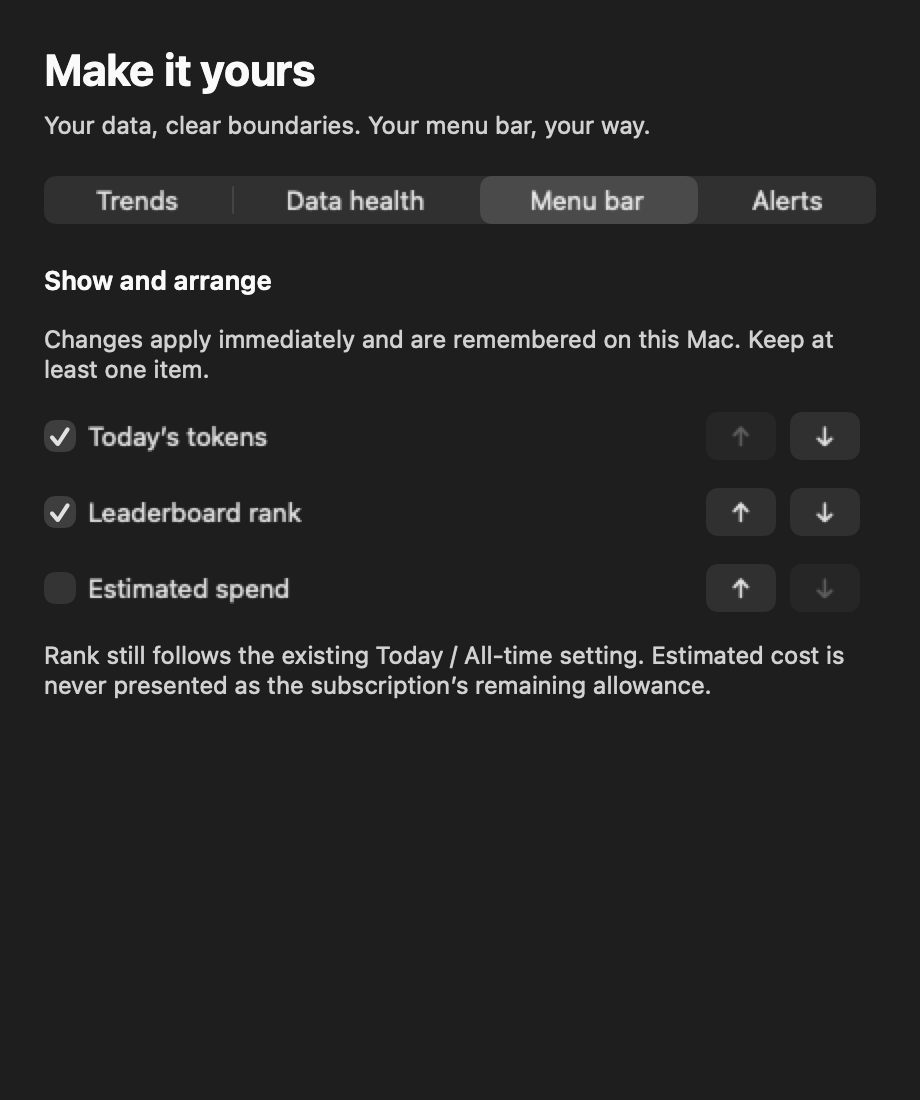
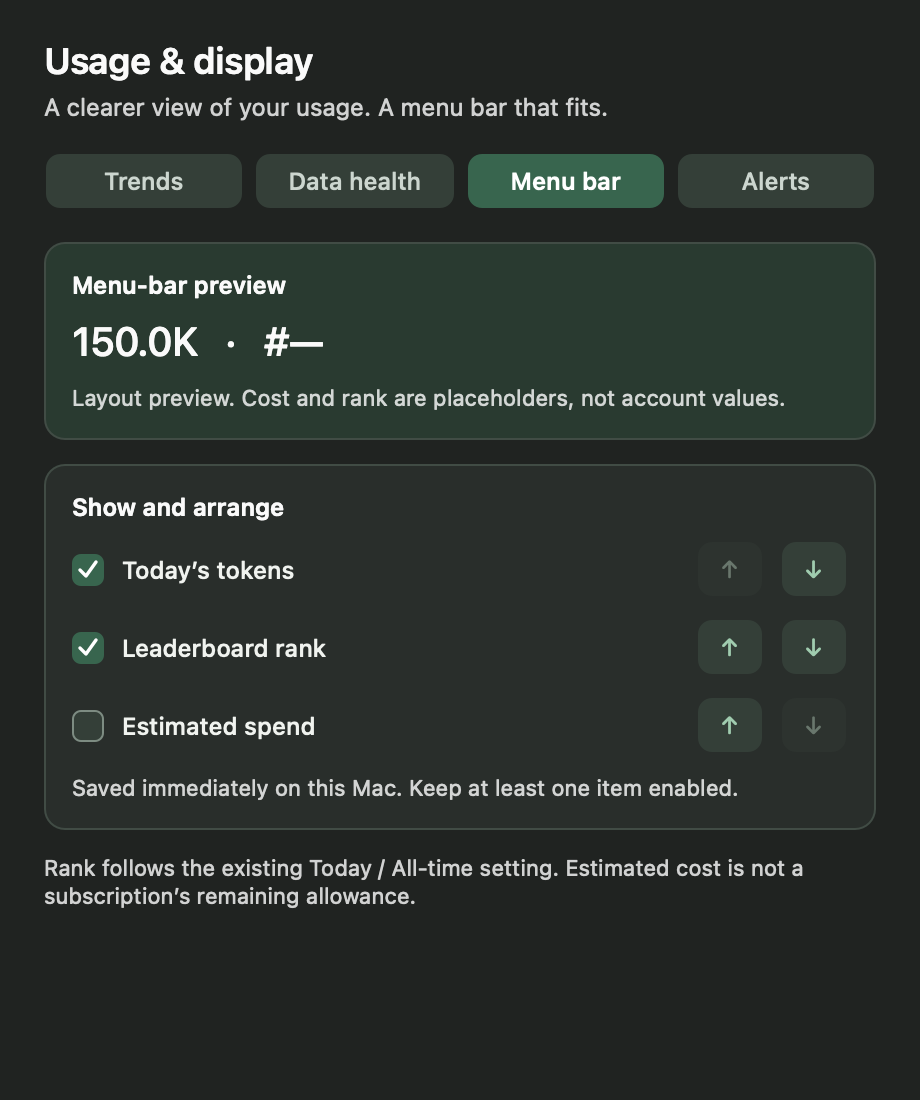
Refresh build21 native screenshots and document page-by-page polish

Changed region(s): [[0.0304, 0.0309, 0.9739, 0.7418], [0.0304, 0.7727, 0.8826, 0.8345], [0.7913, 0.4636, 0.8217, 0.4945]]

diff --git a/docs/SCREENSHOTS.md b/docs/SCREENSHOTS.md
@@ -36,12 +36,12 @@ The earlier [2026-10-27 run](https://github.com/lucaisgrowing/tokens-menubar/act
 这 14 张图片由 1.11.1 源码构建的 App 在 macOS 上以 2× 分辨率原生离屏渲染，使用虚构的 `demo-user` API／CLI 数据。截图模式使用固定底色代替实际弹层材质；它不是桌面截图，也不代替真实账号、钥匙串、CLI 和界面交互的人工验收。贡献图在滚动年份靠近月初时，前两个标签可能重叠，这是原界面的布局问题，不是图片放大造成的。
 
 
-## Unreleased 1.12.0 build 20 candidate
+## Unreleased 1.12.0 build 21 candidate
 
-The candidate README images were refreshed from the exact universal App produced by [macOS run 40668113754](https://github.com/lucaisgrowing/tokens-menubar/actions/runs/40668113754), source `e685551dceedc970c8b1c892c61da57f9214789e`. They supersede the released-version image provenance above only on the isolated candidate branch.
+The four Usage & display pane images in both languages and appearances were refreshed from the exact universal App produced by [macOS run 40797769460](https://github.com/lucaisgrowing/tokens-menubar/actions/runs/40797769460), source `cb846e2`. They supersede the released-version image provenance above only on the isolated candidate branch.
 
-- `docs/menu*.png` and their Chinese counterparts are 720×1492; Agent windows are 1400×1440; Usage & display panes are 920×1100. All are 2× native AppKit offscreen renders, not an image upscaling.
+- Main/Agent images remain from build 20 (run 40668113754), visually unchanged by this preference-only refinement. `docs/menu*.png` and their Chinese counterparts are 720×1492; Agent windows are 1400×1440; the updated Usage & display panes are 920×1100. All are 2× native AppKit offscreen renders, not an image upscaling.
 - `Tools/render-readme-snapshots.sh` uses a loopback fixture server and temporary demo CLI. `--agent-diagnostics` and `--preferences-diagnostics` use synthetic fixtures and labelled disabled/error/demo states. They never connect personal accounts or send notifications.
-- All four preferences panes, both main panel appearances and both automatic-connection appearances in English/Chinese were visually reviewed. Text fits without overlapping; long Agent content intentionally scrolls. The new screenshots are copied without pixel edits. Normal macOS controls may appear neutral in offscreen rendering; the existing panel's deep-green accent remains checked by the native contrast tests.
+- All four preferences panes, both main panel appearances and both automatic-connection appearances in English/Chinese were visually reviewed. Text fits without overlapping; long Agent content intentionally scrolls. The new screenshots are copied without pixel edits. The four preference panes use fixed ink-green custom tab, action and checkbox drawing, with appearance-specific opaque surfaces; native popup menus remain native. Button foreground/background contrast is at least 4.5:1 in both appearances, checked with a blue system accent preference.
 - The trends illustration is a deterministic example, not a current account statement. No authenticated Codex/Claude/Muse Code usage, real Keychain/OpenRouter behavior or notification banner delivery is verified.
[2 lines of base64/hex data omitted]

diff --git a/docs/UI-REVIEW.zh-CN.md b/docs/UI-REVIEW.zh-CN.md
@@ -1,0 +1,12 @@
+# TokensBar build21：四页界面精修
+
+沿用原字体与原有功能，在 build20 候选版上直接改进；没有合并 main 或发布新版本。
+
+- 趋势：原先大数字、模型差额和长段口径说明挤在同一层级，缺少视觉分组。现在以淡墨绿摘要卡突出变化，今日与此前七日日均左右对照；模型贡献独立成卡，口径、未完结 UTC 日和更新时间降为辅助信息。没有把 token 变化当成账单变化或原因推断。
+- 数据状态：原先服务端与本机状态主要靠段落区分，时间和行动不够集中。现在拆成服务端、此 Mac 两张卡，最近尝试／成功读取／服务端提交分别对齐；主操作用墨绿，次操作用浅绿。保留旧数值、刷新不上传活动等重要边界没有删掉。
+- 菜单栏：原先只有勾选和上下移动，修改后的组合不够直观。增加即时组合预览，费用和排名明确是占位；选择区与预览分开，绿色选中状态，重新绘制清晰勾选符号并补足按钮内边距。至少一项保护、顺序持久化保持不变。
+- 提醒：原先阈值、频率、保存和解释文字混在一起。现在拆为阈值和通知两组，数字框右对齐，主按钮写清“保存提醒设置”；保留填 0 关闭、费用估算、旧数据不触发、专注模式可能隐藏横幅的说明。
+
+四页的选中标签、主按钮和高亮固定采用墨绿／深绿；浅深色分别调整背景、卡片边界及辅助绿色文字。设置主标题改为“用量与显示”，避免原来宣传式大标题抢过实际内容。保留原生弹出菜单、键盘／无障碍标签与焦点指示。
+
+验证与限制：提供实际 macOS App 的 2× 离屏渲染图，使用演示数据，不是设计稿或放大旧图。原主面板与 Agent 自动来源能力未扩展；真实登录账号、Keychain/OpenRouter、通知横幅实际送达仍未实测。候选 App 仅 ad-hoc 签名，未 Apple 公证，首次运行可能被 macOS 拦截。

diff --git a/README.md b/README.md
@@ -41,6 +41,8 @@ No new release or main merge; the v1.11.1 download does not include this candida
 <p align="center"><img src="docs/preferences-0-en-light.png" width="310" alt="Today versus the previous seven UTC days"><img src="docs/preferences-1-en-dark.png" width="310" alt="Fetch and local CLI data health"></p>
 <p align="center"><img src="docs/preferences-3-en-light.png" width="310" alt="Estimated cost thresholds and notification frequency"></p>
 
+[Four-pane UI review](docs/UI-REVIEW.zh-CN.md) · [Screenshot provenance](docs/SCREENSHOTS.md)
+
 These 2× native AppKit offscreen renders use synthetic fixtures and explicit failure/demo states, not connected account values. Authenticated account results, Keychain and notification delivery are not verified.
 
 ## What's new in 1.11.1
